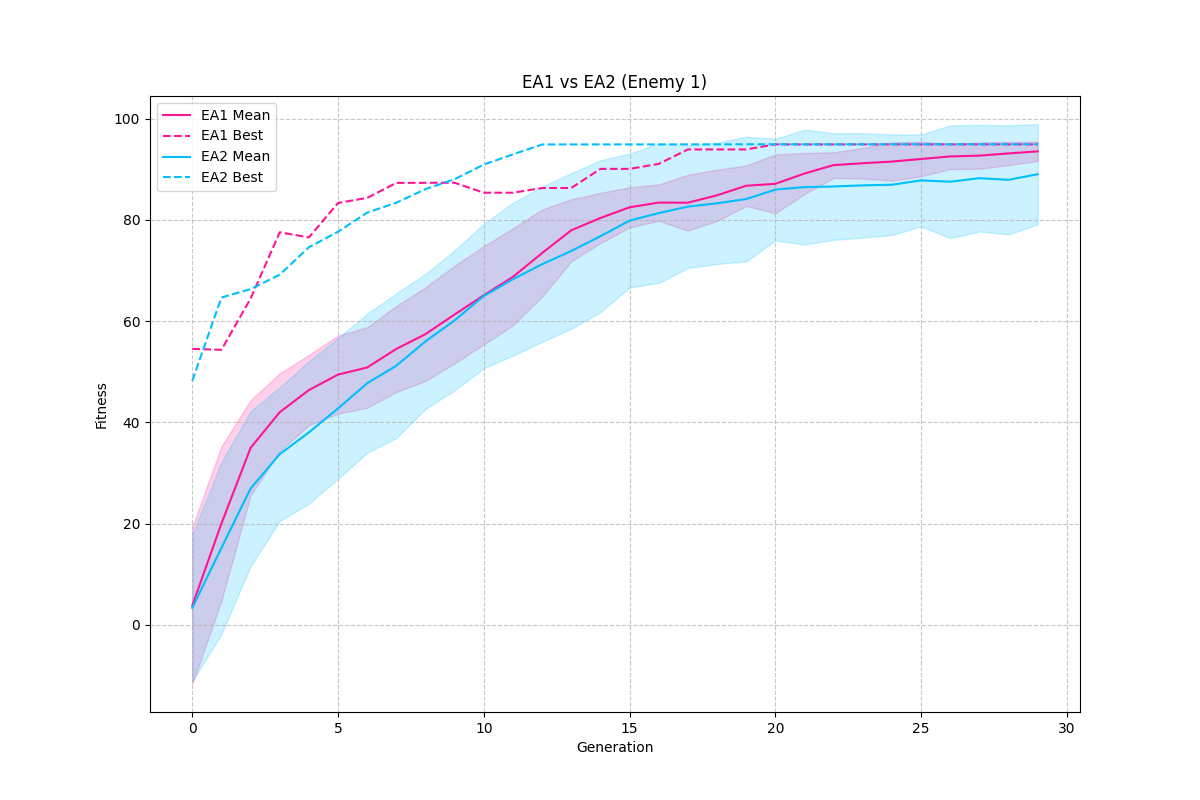
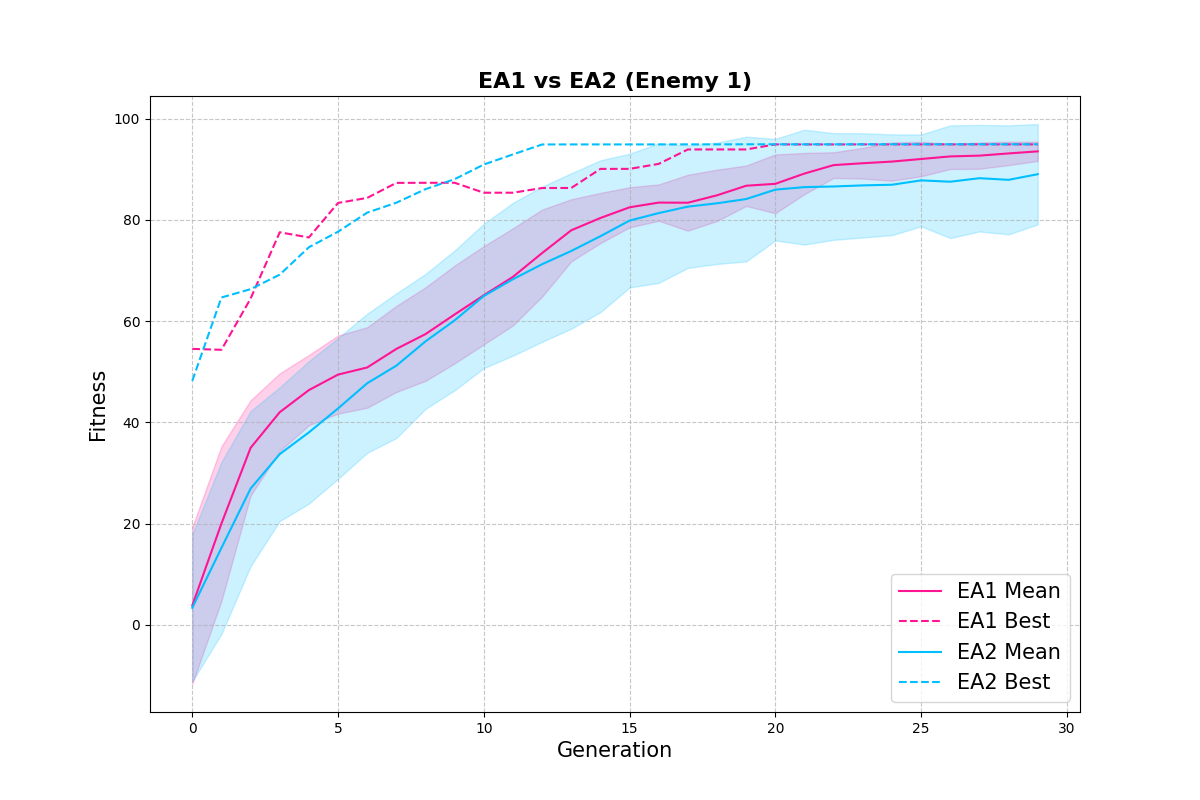
fitness

diff --git a/plotting.py b/plotting.py
@@ -82,10 +82,10 @@ def plot_comparison(ea1_folder, ea2_folder, enemy, output_filename):
     plt.fill_between(generations, ea2_mean - ea2_std, ea2_mean + ea2_std, 
                      alpha=0.2, color='#00BFFF')
     
-    plt.title(f'EA1 vs EA2 (Enemy {enemy})')
-    plt.xlabel('Generation')
-    plt.ylabel('Fitness')
-    plt.legend()
+    plt.title(f'EA1 vs EA2 (Enemy {enemy})', fontsize=16, fontweight='bold')
+    plt.xlabel('Generation', fontsize=15)
+    plt.ylabel('Fitness', fontsize=15)
+    plt.legend(loc='lower right', fontsize=15)
     plt.grid(True, linestyle='--', alpha=0.7)
     
     plt.savefig(output_filename)
